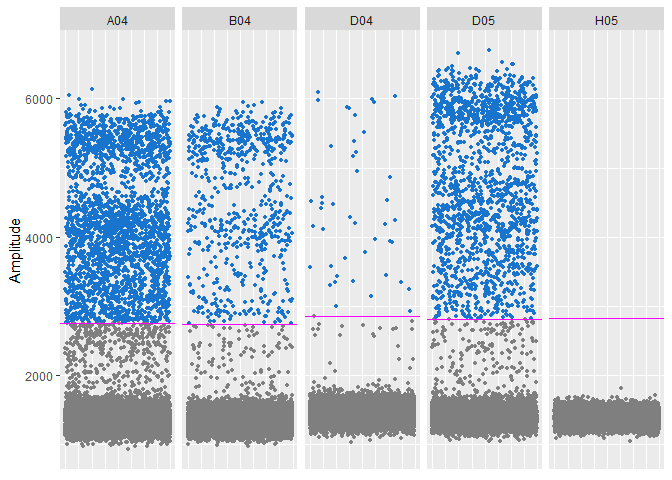
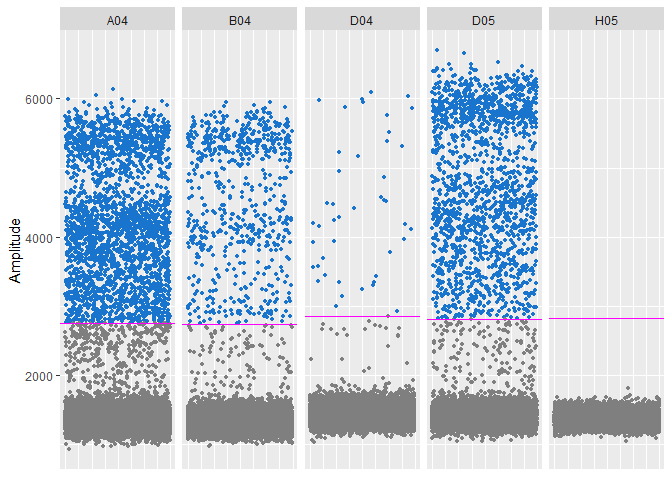
Changed default value of B to 200 (from 400 previously)

diff --git a/README.md b/README.md
@@ -110,7 +110,7 @@ package, which can be found using `system.file("extdata",
 
 The number of permutations used by the likelihood ratio test (LRT) which
 decides the number of components in the model fitted from the data.
-Default value `B=400`.
+Default value `B=200`.
 
 ### Q
 
